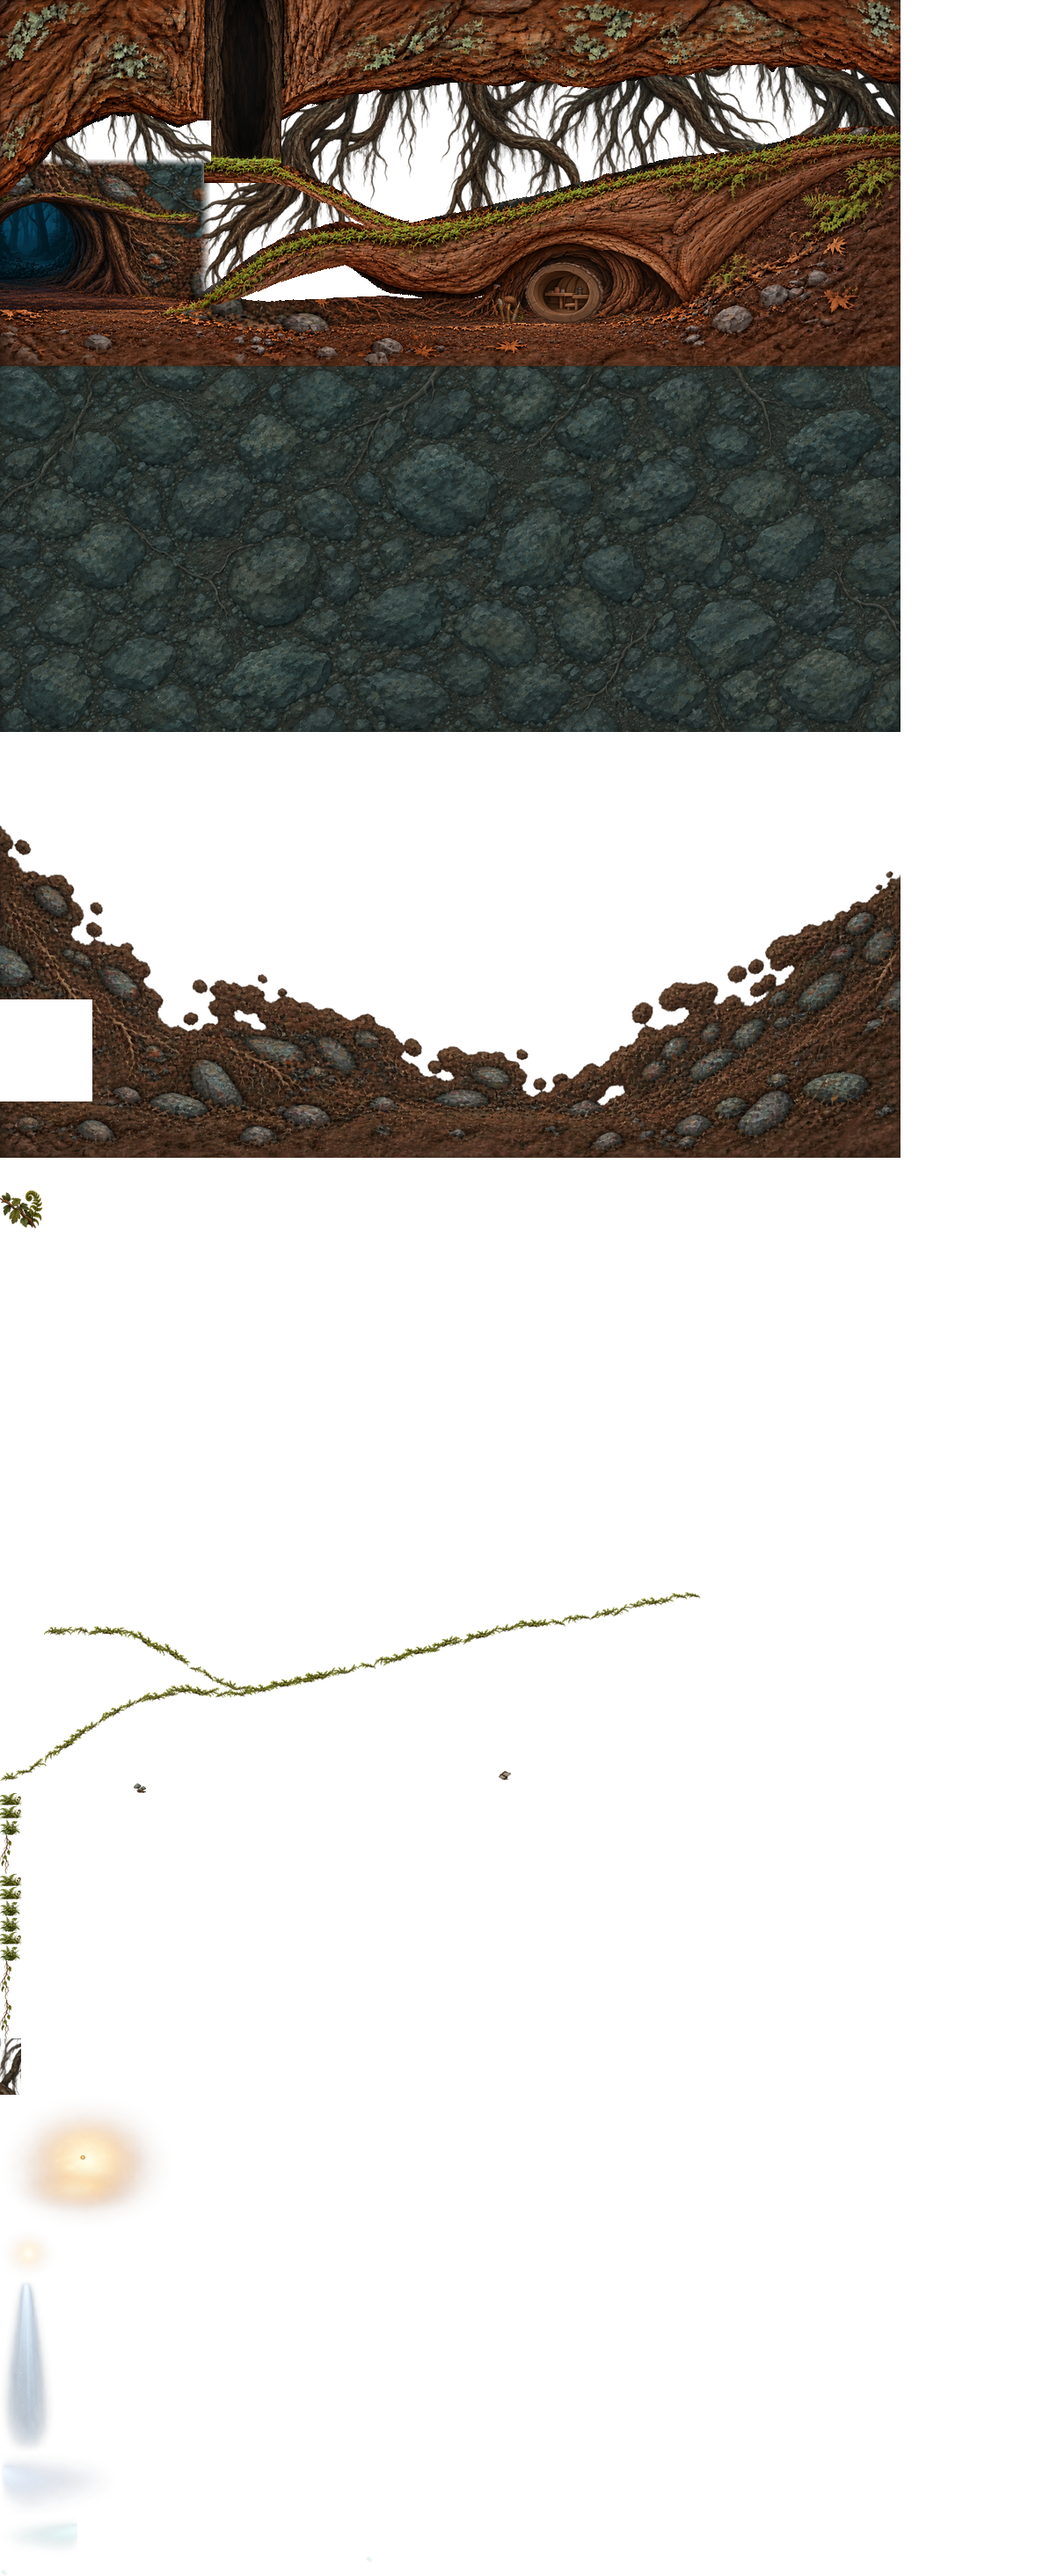
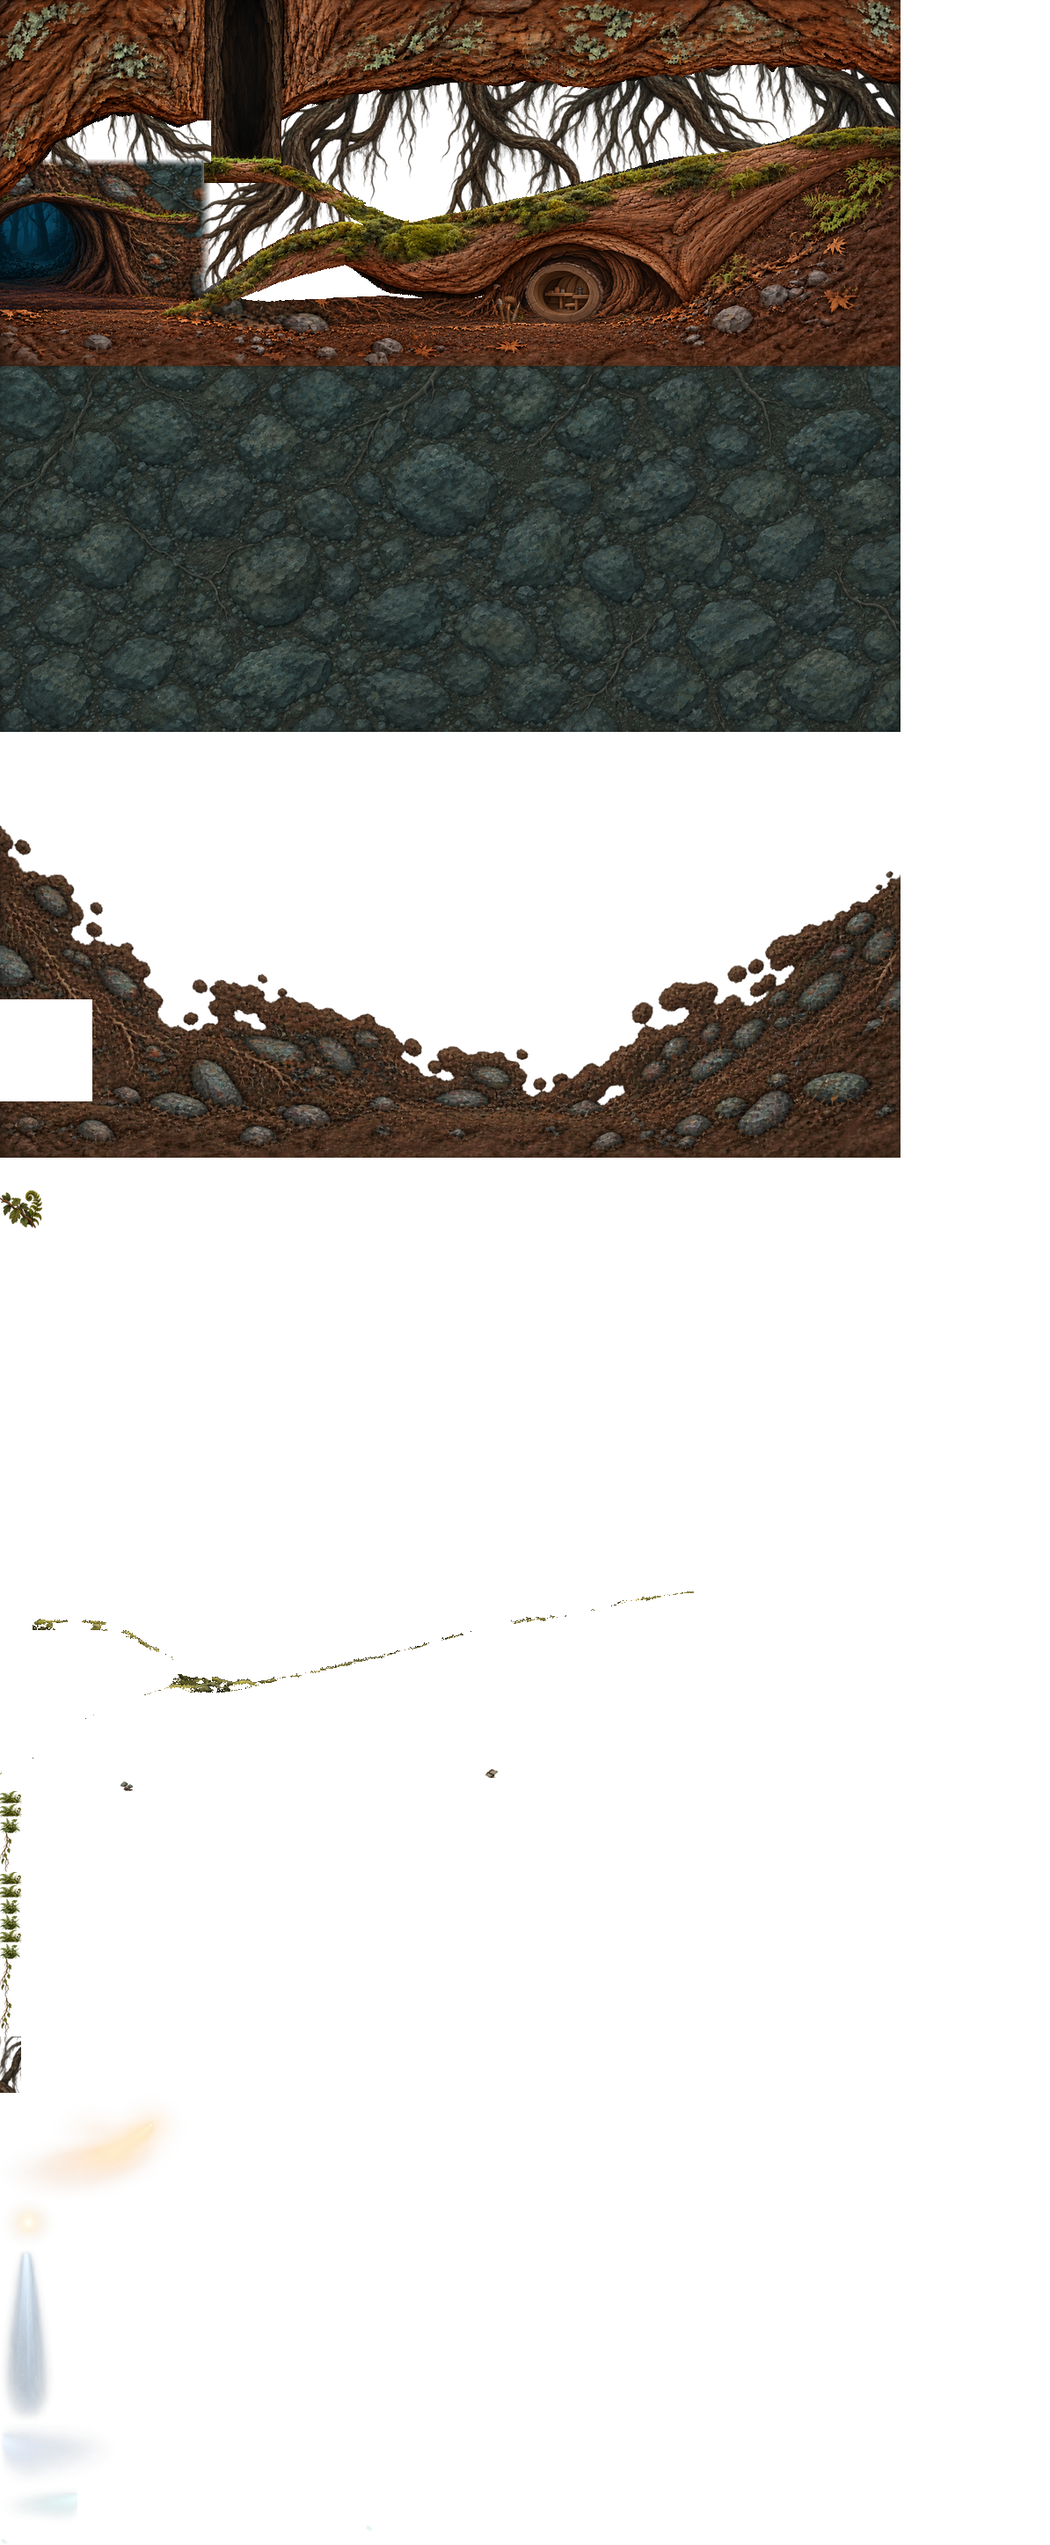
Under the oak, painted revision 05
The moss on the roots is soft cushions and mats with worn bark showing through, and the workshop's lantern light spills out of the door and across the floor to the left.

diff --git a/painted.html b/painted.html
@@ -11,8 +11,8 @@
 <style>
   /* Alegreya, the title menu's lettering, comes with the game (art/fonts, a Latin cut of it) so it looks the same offline
      or when Google Fonts can't load. SIL Open Font License, in Alegreya-OFL.txt next to it */
-  @font-face { font-family: 'Alegreya'; src: url(art/fonts/Alegreya.woff?v=1027t) format('woff'); font-weight: 400 900; font-style: normal; font-display: swap; }
-  @font-face { font-family: 'Alegreya'; src: url(art/fonts/Alegreya-Italic.woff?v=1027t) format('woff'); font-weight: 400 900; font-style: italic; font-display: swap; }
+  @font-face { font-family: 'Alegreya'; src: url(art/fonts/Alegreya.woff?v=1027u) format('woff'); font-weight: 400 900; font-style: normal; font-display: swap; }
+  @font-face { font-family: 'Alegreya'; src: url(art/fonts/Alegreya-Italic.woff?v=1027u) format('woff'); font-weight: 400 900; font-style: italic; font-display: swap; }
   /* one dark toy-room look for the whole page: the game screen, a strip of controls under it, a tuning drawer */
   :root {
     --bg: #12131c; --panel: #1d2030; --line: #343a55; --fg: #e8e6f0; --dim: #9aa0bb;
@@ -55,7 +55,7 @@
   .overlay .small { color: var(--dim); font-size: 13px; max-width: 46ch; margin-inline: auto; }
   /* the title card (10/17/2026, Moonlit Grime v5): the painting fills the start screen, the title's in it, so the
      words above it are kept for screen readers only and the start note sits low over the bottom of the picture */
-  #start { background: #07080e url(art/title/title_card.jpg?v=1027t) center / contain no-repeat; place-items: end end; text-align: right; }
+  #start { background: #07080e url(art/title/title_card.jpg?v=1027u) center / contain no-repeat; place-items: end end; text-align: right; }
   #start > div:not(#title) { margin: 0 max(2%, 10px) max(2%, 10px) 0; max-width: min(38ch, 46%); padding: 8px 14px 9px; border-radius: 8px; background: rgba(7, 8, 14, .74); }   /* (bottom right, over the water: Phill's in the middle) */
   #start h1, #start .sub { position: absolute; width: 1px; height: 1px; overflow: hidden; clip: rect(0 0 0 0); white-space: nowrap; }
   #start .small { font-size: 12px; margin-inline: 0; }
@@ -64,7 +64,7 @@
      bigger box in the middle with the picture blurred and dimmed behind it. Made to go with the painting
      (10/17/2026): night blue panels with a little paper grain, cream storybook lettering, a thin worn gold edge. The night
      blue also fills round the picture where the screen's a different shape */
-  body.titlemenu #start { cursor: default; background-color: #0a1323; background-image: url(art/title/title_card.jpg?v=1027t), radial-gradient(ellipse at 50% 35%, #13213a 0%, #0b1426 55%, #070c17 100%); background-size: contain, cover; background-repeat: no-repeat; background-position: center, 0 0; }
+  body.titlemenu #start { cursor: default; background-color: #0a1323; background-image: url(art/title/title_card.jpg?v=1027u), radial-gradient(ellipse at 50% 35%, #13213a 0%, #0b1426 55%, #070c17 100%); background-size: contain, cover; background-repeat: no-repeat; background-position: center, 0 0; }
   body.titlemenu #start > div:not(#title) { display: none; }
   #title { position: absolute; inset: 0; pointer-events: none; font-family: 'Alegreya', Georgia, 'Palatino Linotype', 'Book Antiqua', serif; --cream: #f2e7cd; --gold: #e4c07a; --muted: #b9ad92; --night: 11, 20, 38; }
   /* the picture's edges melt into the night blue */
@@ -228,11 +228,11 @@
   </div>
 </div>
 <!-- the game's code. Rooms aren't listed here: they load one at a time as Phill gets near them -->
-<script>window.BUILD = '1027t';   // bump on every update: every script, room file and picture is asked for with it, so a browser never keeps an old copy</script>
-<script src="art/phill/phill_frames.js?v=1027t"></script>
-<script src="art/crow/crow_frames.js?v=1027t"></script>
-<script src="art/bear/bear_frames.js?v=1027t"></script>
-<script src="rooms/index.js?v=1027t"></script>
+<script>window.BUILD = '1027u';   // bump on every update: every script, room file and picture is asked for with it, so a browser never keeps an old copy</script>
+<script src="art/phill/phill_frames.js?v=1027u"></script>
+<script src="art/crow/crow_frames.js?v=1027u"></script>
+<script src="art/bear/bear_frames.js?v=1027u"></script>
+<script src="rooms/index.js?v=1027u"></script>
 <script>
 // the painted rooms test (10/25/2026, Source/Rooms/painted_test.py): the same game, with Rootwood's six painted rooms
 // swapped in from rooms/rootwood/painted. This page's saves and settings are kept apart from the main game's
@@ -252,62 +252,62 @@
   }
 })();
 </script>
-<script src="rooms/map.js?v=1027t"></script>
-<script src="art/rootwood/rootwood_sprites.js?v=1027t"></script>
-<script src="art/rootwood/soldier_sprites.js?v=1027t"></script>
-<script src="art/pond/pond_sprites.js?v=1027t"></script>
-<script src="art/playground/playground_sprites.js?v=1027t"></script>
-<script src="art/oak/oak_sprites.js?v=1027t"></script>
-<script src="art/wildlife/wildlife.js?v=1027t"></script>
-<script src="art/hitmasks.js?v=1027t"></script>
-<script src="art/warren/warren_sprites.js?v=1027t"></script>
-<script src="art/greenhouse/greenhouse_sprites.js?v=1027t"></script>
-<script src="art/hive/hive_sprites.js?v=1027t"></script>
-<script src="js/config.js?v=1027t"></script>
-<script src="js/input.js?v=1027t"></script>
-<script src="js/audio.js?v=1027t"></script>
-<script src="js/assets.js?v=1027t"></script>
-<script src="js/fx.js?v=1027t"></script>
-<script src="js/world.js?v=1027t"></script>
-<script src="js/rooms.js?v=1027t"></script>
-<script src="js/player.js?v=1027t"></script>
-<script src="js/story.js?v=1027t"></script>
-<script src="js/idle.js?v=1027t"></script>
-<script src="js/scene.js?v=1027t"></script>
-<script src="js/scenes/opening.js?v=1027t"></script>
-<script src="js/font.js?v=1027t"></script>
-<script src="js/talk.js?v=1027t"></script>
-<script src="js/pins.js?v=1027t"></script>
-<script src="js/foes.js?v=1027t"></script>
-<script src="js/boss.js?v=1027t"></script>
-<script src="js/pond.js?v=1027t"></script>
-<script src="js/pond_bosses.js?v=1027t"></script>
-<script src="js/rootwood.js?v=1027t"></script>
-<script src="js/rootwood_foes2.js?v=1027t"></script>
-<script src="js/rootwood_plants.js?v=1027t"></script>
-<script src="js/oak.js?v=1027t"></script>
-<script src="js/wildlife.js?v=1027t"></script>
-<script src="js/oak_bosses.js?v=1027t"></script>
-<script src="js/playground.js?v=1027t"></script>
-<script src="js/playground_bosses.js?v=1027t"></script>
-<script src="js/moves2.js?v=1027t"></script>
-<script src="js/map.js?v=1027t"></script>
-<script src="js/scenes/rootwood.js?v=1027t"></script>
-<script src="js/camera.js?v=1027t"></script>
-<script src="js/render.js?v=1027t"></script>
-<script src="js/warren.js?v=1027t"></script>
-<script src="js/greenhouse.js?v=1027t"></script>
-<script src="js/greenhouse_foes.js?v=1027t"></script>
-<script src="js/greenhouse_boss.js?v=1027t"></script>
-<script src="js/hive.js?v=1027t"></script>
-<script src="js/hive_foes.js?v=1027t"></script>
-<script src="js/hive_bosses.js?v=1027t"></script>
-<script src="js/bear.js?v=1027t"></script>
-<script src="js/ui.js?v=1027t"></script>
-<script src="js/main.js?v=1027t"></script>
-<script src="js/touch.js?v=1027t"></script>
-<script src="js/areas.js?v=1027t"></script>
-<script src="js/debug.js?v=1027t"></script>
-<script src="js/menu.js?v=1027t"></script>
+<script src="rooms/map.js?v=1027u"></script>
+<script src="art/rootwood/rootwood_sprites.js?v=1027u"></script>
+<script src="art/rootwood/soldier_sprites.js?v=1027u"></script>
+<script src="art/pond/pond_sprites.js?v=1027u"></script>
+<script src="art/playground/playground_sprites.js?v=1027u"></script>
+<script src="art/oak/oak_sprites.js?v=1027u"></script>
+<script src="art/wildlife/wildlife.js?v=1027u"></script>
+<script src="art/hitmasks.js?v=1027u"></script>
+<script src="art/warren/warren_sprites.js?v=1027u"></script>
+<script src="art/greenhouse/greenhouse_sprites.js?v=1027u"></script>
+<script src="art/hive/hive_sprites.js?v=1027u"></script>
+<script src="js/config.js?v=1027u"></script>
+<script src="js/input.js?v=1027u"></script>
+<script src="js/audio.js?v=1027u"></script>
+<script src="js/assets.js?v=1027u"></script>
+<script src="js/fx.js?v=1027u"></script>
+<script src="js/world.js?v=1027u"></script>
+<script src="js/rooms.js?v=1027u"></script>
+<script src="js/player.js?v=1027u"></script>
+<script src="js/story.js?v=1027u"></script>
+<script src="js/idle.js?v=1027u"></script>
+<script src="js/scene.js?v=1027u"></script>
+<script src="js/scenes/opening.js?v=1027u"></script>
+<script src="js/font.js?v=1027u"></script>
+<script src="js/talk.js?v=1027u"></script>
+<script src="js/pins.js?v=1027u"></script>
+<script src="js/foes.js?v=1027u"></script>
+<script src="js/boss.js?v=1027u"></script>
+<script src="js/pond.js?v=1027u"></script>
+<script src="js/pond_bosses.js?v=1027u"></script>
+<script src="js/rootwood.js?v=1027u"></script>
+<script src="js/rootwood_foes2.js?v=1027u"></script>
+<script src="js/rootwood_plants.js?v=1027u"></script>
+<script src="js/oak.js?v=1027u"></script>
+<script src="js/wildlife.js?v=1027u"></script>
+<script src="js/oak_bosses.js?v=1027u"></script>
+<script src="js/playground.js?v=1027u"></script>
+<script src="js/playground_bosses.js?v=1027u"></script>
+<script src="js/moves2.js?v=1027u"></script>
+<script src="js/map.js?v=1027u"></script>
+<script src="js/scenes/rootwood.js?v=1027u"></script>
+<script src="js/camera.js?v=1027u"></script>
+<script src="js/render.js?v=1027u"></script>
+<script src="js/warren.js?v=1027u"></script>
+<script src="js/greenhouse.js?v=1027u"></script>
+<script src="js/greenhouse_foes.js?v=1027u"></script>
+<script src="js/greenhouse_boss.js?v=1027u"></script>
+<script src="js/hive.js?v=1027u"></script>
+<script src="js/hive_foes.js?v=1027u"></script>
+<script src="js/hive_bosses.js?v=1027u"></script>
+<script src="js/bear.js?v=1027u"></script>
+<script src="js/ui.js?v=1027u"></script>
+<script src="js/main.js?v=1027u"></script>
+<script src="js/touch.js?v=1027u"></script>
+<script src="js/areas.js?v=1027u"></script>
+<script src="js/debug.js?v=1027u"></script>
+<script src="js/menu.js?v=1027u"></script>
 </body>
 </html>

diff --git a/rooms/rootwood/painted/roots.js b/rooms/rootwood/painted/roots.js
@@ -37,120 +37,120 @@ ROOM({
    "front": [
     0,
     1809,
-    797,
-    229
+    789,
+    227
    ],
    "piece_plant_toe_fern": [
     0,
-    2038,
+    2036,
     25,
     15
    ],
    "piece_plant_root_fern": [
     0,
-    2053,
+    2051,
     25,
     15
    ],
    "piece_plant_cave_tuft": [
     0,
-    2068,
+    2066,
     23,
     18
    ],
    "piece_plant_root_hair": [
     0,
-    2086,
+    2084,
     13,
     44
    ],
    "piece_plant_clearing_edge_fern": [
     0,
-    2130,
+    2128,
     25,
     15
    ],
    "piece_plant_low_bank_fern": [
     0,
-    2145,
+    2143,
     25,
     15
    ],
    "piece_plant_toe_earth_tuft": [
     0,
-    2160,
+    2158,
     23,
     18
    ],
    "piece_plant_cave_bank_tuft": [
     0,
-    2178,
+    2176,
     23,
     18
    ],
    "piece_plant_root_back_fern": [
     0,
-    2196,
+    2194,
     25,
     15
    ],
    "piece_plant_upper_root_tuft": [
     0,
-    2211,
+    2209,
     23,
     18
    ],
    "piece_plant_cave_hanging_vine": [
     0,
-    2229,
+    2227,
     13,
     44
    ],
    "piece_plant_ceiling_vine_left": [
     0,
-    2273,
+    2271,
     13,
     44
    ],
    "piece_plant_ceiling_root_hairs": [
     0,
-    2317,
+    2315,
     24,
     64
    ],
    "piece_glow_0": [
     0,
-    2381,
-    198,
-    152
+    2379,
+    213,
+    119
    ],
    "piece_glow_1": [
     0,
-    2533,
+    2498,
     65,
     57
    ],
    "piece_glow_2": [
     0,
-    2590,
+    2555,
     62,
     197
    ],
    "piece_glow_3": [
     0,
-    2787,
+    2752,
     132,
     74
    ],
    "piece_glow_4": [
     0,
-    2861,
+    2826,
     88,
     44
    ],
    "piece_glow_5": [
     0,
-    2905,
+    2870,
     425,
     23
    ]
@@ -171,8 +171,8 @@ ROOM({
   ],
   "front": "art/rootwood/painted/roots.png#front",
   "frontAt": [
-   180,
-   142
+   195,
+   144
   ],
   "pieces": {
    "plant_toe_fern": [
@@ -254,10 +254,10 @@ ROOM({
     64
    ],
    "glow_0": [
-    563,
-    262,
-    198,
-    152
+    486,
+    297,
+    213,
+    119
    ],
    "glow_1": [
     111,
@@ -397,12 +397,6 @@ ROOM({
   "a": 0.6,
   "lights": [
    [
-    657,
-    333,
-    112,
-    1.0
-   ],
-   [
     144,
     348,
     65,
@@ -439,10 +433,16 @@ ROOM({
     0.45
    ],
    [
-    645,
-    366,
-    80,
-    0.8
+    610,
+    360,
+    65,
+    1.0
+   ],
+   [
+    657,
+    333,
+    22,
+    0.7
    ]
   ]
  },
